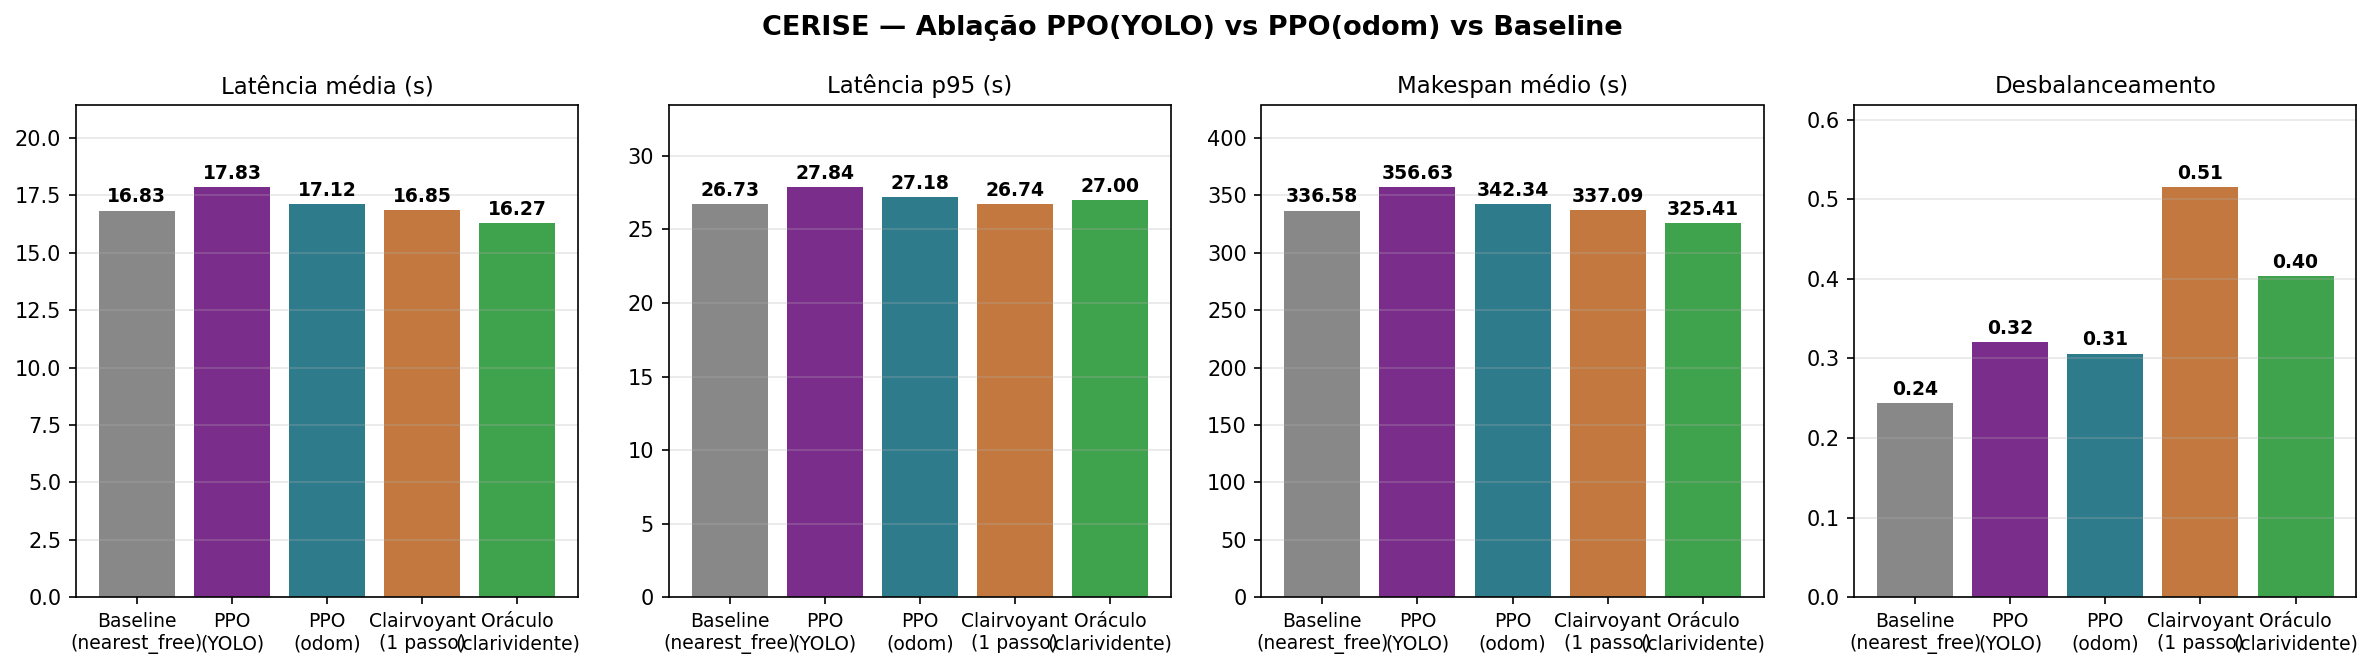
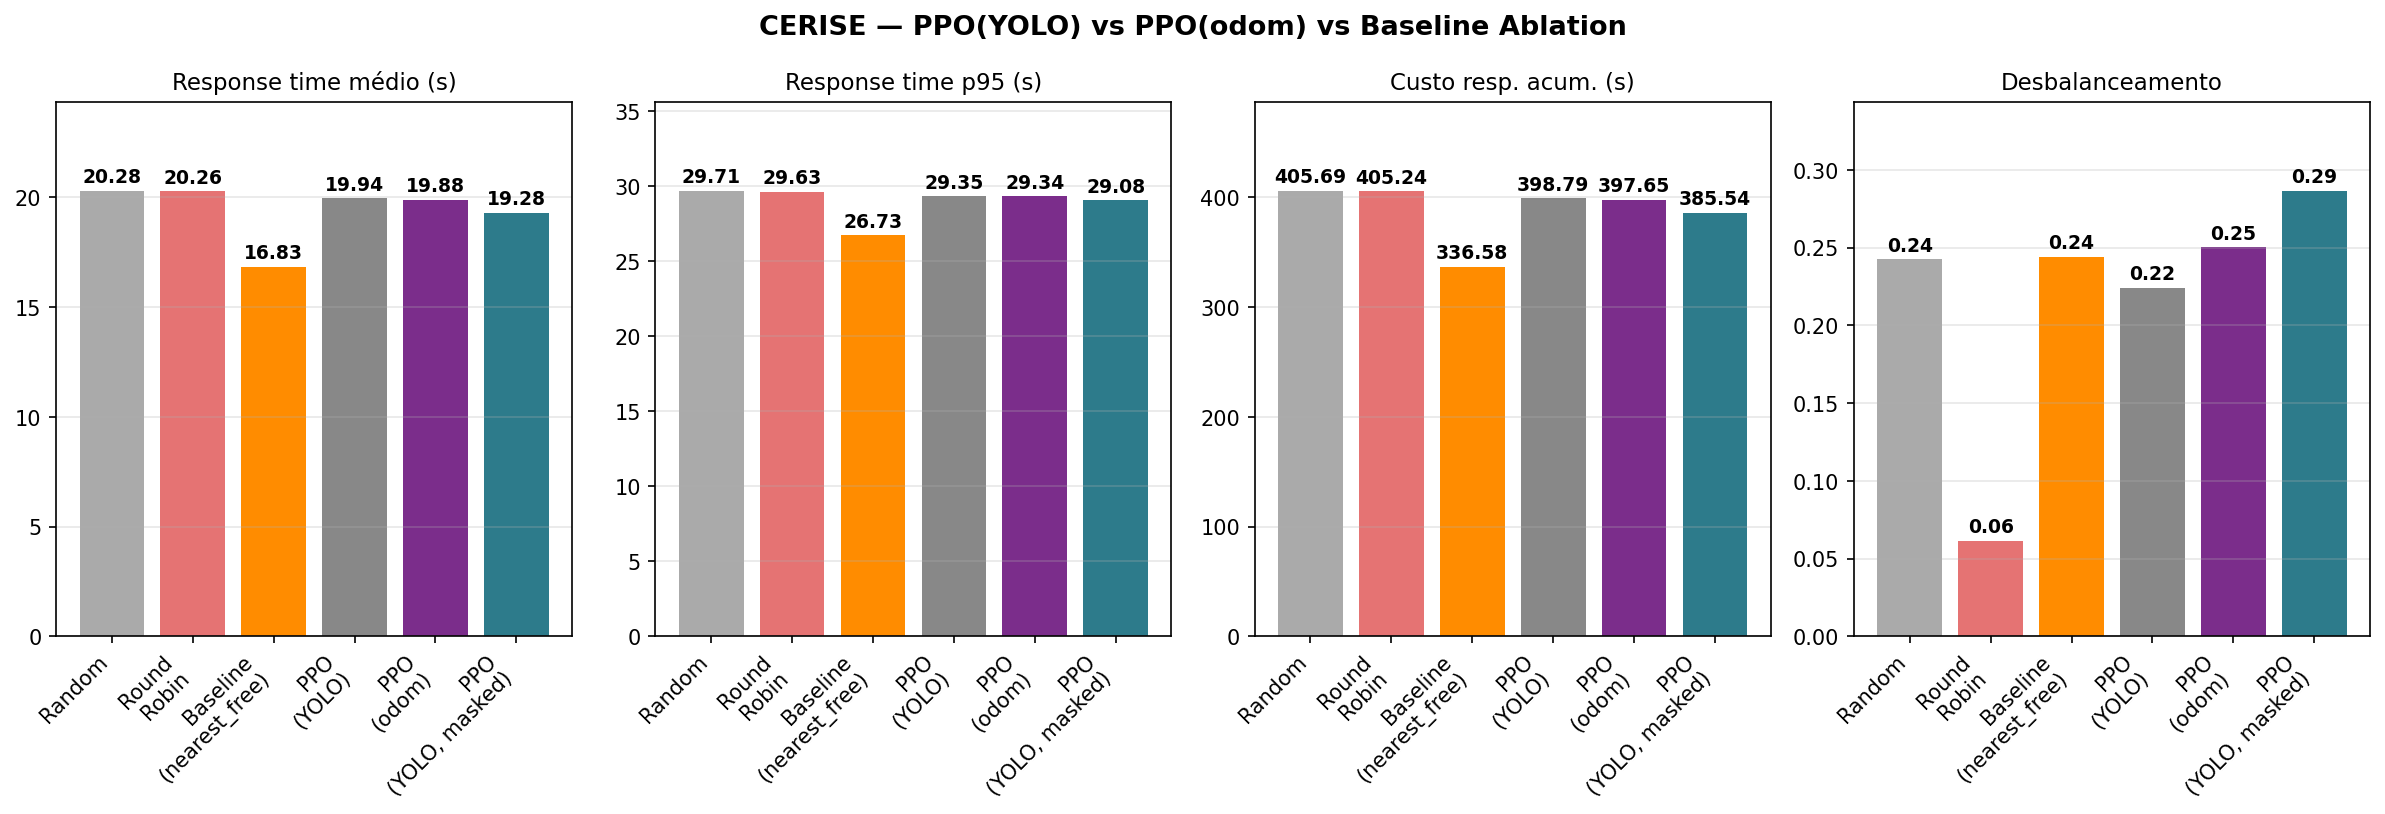
chore: ajustes de infra Gazebo e melhorias nos scripts de análise
- params_r*.yaml: corrige odom_topic e configura costmap global como
  janela rolante (rolling_window), evitando problemas de mapa estático
  com múltiplos robôs.
- demand_generator: aumenta intervalo padrão de 30s para 90s.
- launch/cerise_full.launch.py: launch consolidado para o pipeline completo.
- Scripts de plot/análise: rótulos em inglês, multi-seed
  (aggregate_multiseed.py), suporte a variantes mascaradas no
  analyze_ppo_behavior.py, e regeneração das figuras de ablação.

diff --git a/launch/cerise_full.launch.py b/launch/cerise_full.launch.py
@@ -1,0 +1,101 @@
+#!/usr/bin/env python3
+"""
+Launch completo CERISE: Gazebo + 3 robôs + TF estático map→odom + Nav2 (sem AMCL/map).
+yolo_detector, task_allocator e demand_generator rodam em terminais separados.
+
+Uso: ros2 launch cerise_nav cerise_full.launch.py
+"""
+from pathlib import Path
+from launch import LaunchDescription
+from launch.actions import IncludeLaunchDescription, TimerAction, GroupAction
+from launch.launch_description_sources import PythonLaunchDescriptionSource
+from launch_ros.actions import Node, PushRosNamespace
+
+
+def generate_launch_description():
+    # resolve() ANTES de navegar — segue o symlink do launch instalado até o repo
+    pkg_dir    = Path(__file__).resolve().parent.parent
+    world_file = str(pkg_dir / "world_with_camera.world")
+    waffle     = str(pkg_dir / "waffle_nodepth.model")
+    nav_launch = "/opt/ros/humble/share/nav2_bringup/launch/navigation_launch.py"
+    gz_dir     = "/opt/ros/humble/share/gazebo_ros"
+
+    robots = [
+        {"name": "robot1", "x": "-0.55", "y":  "0.55", "params": str(pkg_dir / "params_r1.yaml")},
+        {"name": "robot2", "x":  "0.55", "y":  "0.55", "params": str(pkg_dir / "params_r2.yaml")},
+        {"name": "robot3", "x":  "0.55", "y": "-0.55", "params": str(pkg_dir / "params_r3.yaml")},
+    ]
+
+    ld = LaunchDescription()
+
+    # Gazebo server + cliente
+    ld.add_action(IncludeLaunchDescription(
+        PythonLaunchDescriptionSource(f"{gz_dir}/launch/gzserver.launch.py"),
+        launch_arguments={"world": world_file, "pause": "false"}.items(),
+    ))
+    ld.add_action(IncludeLaunchDescription(
+        PythonLaunchDescriptionSource(f"{gz_dir}/launch/gzclient.launch.py")
+    ))
+
+    # Spawn 3 robôs
+    for r in robots:
+        ld.add_action(Node(
+            package="gazebo_ros", executable="spawn_entity.py",
+            arguments=["-entity", r["name"], "-file", waffle,
+                       "-robot_namespace", r["name"],
+                       "-x", r["x"], "-y", r["y"], "-z", "0.01"],
+            output="screen",
+        ))
+
+    # TF estático map→odom e base_footprint→base_link por robô
+    for r in robots:
+        # map → odom na pose de spawn (odom nasce na pose de spawn)
+        ld.add_action(TimerAction(period=6.0, actions=[Node(
+            package="tf2_ros", executable="static_transform_publisher",
+            name=f"static_map_odom_{r['name']}",
+            arguments=["--x", r["x"], "--y", r["y"], "--z", "0.0",
+                       "--yaw", "0", "--pitch", "0", "--roll", "0",
+                       "--frame-id", "map", "--child-frame-id", "odom"],
+            remappings=[("/tf", f"/{r['name']}/tf"),
+                        ("/tf_static", f"/{r['name']}/tf_static")],
+            output="screen",
+        )]))
+        # base_footprint → base_link (TurtleBot3: z=0.010m)
+        ld.add_action(TimerAction(period=6.0, actions=[Node(
+            package="tf2_ros", executable="static_transform_publisher",
+            name=f"static_fp_bl_{r['name']}",
+            arguments=["--x", "0", "--y", "0", "--z", "0.010",
+                       "--yaw", "0", "--pitch", "0", "--roll", "0",
+                       "--frame-id", "base_footprint", "--child-frame-id", "base_link"],
+            remappings=[("/tf", f"/{r['name']}/tf"),
+                        ("/tf_static", f"/{r['name']}/tf_static")],
+            output="screen",
+        )]))
+        # base_link → base_scan (laser, offset do modelo: x=-0.064, z=0.121)
+        ld.add_action(TimerAction(period=6.0, actions=[Node(
+            package="tf2_ros", executable="static_transform_publisher",
+            name=f"static_bl_bs_{r['name']}",
+            arguments=["--x", "-0.064", "--y", "0", "--z", "0.121",
+                       "--yaw", "0", "--pitch", "0", "--roll", "0",
+                       "--frame-id", "base_link", "--child-frame-id", "base_scan"],
+            remappings=[("/tf", f"/{r['name']}/tf"),
+                        ("/tf_static", f"/{r['name']}/tf_static")],
+            output="screen",
+        )]))
+
+    # Nav2 (navigation_launch — sem AMCL/map_server) namespaced por robô
+    for r in robots:
+        ld.add_action(TimerAction(period=12.0, actions=[GroupAction([
+            PushRosNamespace(r["name"]),
+            IncludeLaunchDescription(
+                PythonLaunchDescriptionSource(nav_launch),
+                launch_arguments={
+                    "namespace":    r["name"],
+                    "use_sim_time": "true",
+                    "params_file":  r["params"],
+                    "use_composition": "False",
+                }.items(),
+            ),
+        ])]))
+
+    return ld

diff --git a/scripts/aggregate_multiseed.py b/scripts/aggregate_multiseed.py
@@ -1,0 +1,105 @@
+#!/usr/bin/env python3
+"""Agrega resultados de múltiplos seeds do PPO e reporta média±std.
+
+Uso:
+    python3 scripts/aggregate_multiseed.py --seeds 42 123 7 --inter-arrival 12
+"""
+import argparse, os, sys
+import numpy as np
+
+_REPO = os.path.dirname(os.path.dirname(os.path.abspath(__file__)))
+sys.path.insert(0, os.path.join(_REPO, 'src', 'cerise_nav'))
+
+from cerise_nav.rl.allocation_env import AllocationEnv
+from cerise_nav.rl.nav_model import calibrate_from_csv
+from cerise_nav.rl import baselines, oracle
+
+
+def eval_seed(model_path, obs_source, args, nav, n_ep=200):
+    from stable_baselines3 import PPO
+    model = PPO.load(model_path)
+    env = AllocationEnv(num_robots=args.num_robots, inter_arrival=args.inter_arrival,
+                        obs_source=obs_source, nav_model=nav, episode_len=args.episode_len)
+    costs = []
+    for ep in range(n_ep):
+        obs, _ = env.reset(seed=ep)
+        total = 0.0
+        done = False
+        while not done:
+            action = int(model.predict(obs, deterministic=True)[0])
+            obs, _, term, trunc, info = env.step(action)
+            total += info['response_time']
+            done = term or trunc
+        costs.append(total)
+    return np.array(costs)
+
+
+def eval_baseline(policy_fn, obs_source, args, nav, n_ep=200):
+    env = AllocationEnv(num_robots=args.num_robots, inter_arrival=args.inter_arrival,
+                        obs_source=obs_source, nav_model=nav, episode_len=args.episode_len)
+    costs = []
+    for ep in range(n_ep):
+        obs, _ = env.reset(seed=ep)
+        total = 0.0
+        done = False
+        while not done:
+            action = policy_fn(obs, env.num_robots)
+            obs, _, term, trunc, info = env.step(action)
+            total += info['response_time']
+            done = term or trunc
+        costs.append(total)
+    return np.array(costs)
+
+
+def main():
+    p = argparse.ArgumentParser()
+    p.add_argument('--seeds', nargs='+', type=int, default=[42, 123, 7])
+    p.add_argument('--inter-arrival', type=float, default=12.0)
+    p.add_argument('--num-robots', type=int, default=3)
+    p.add_argument('--episode-len', type=int, default=20)
+    p.add_argument('--episodes', type=int, default=200)
+    p.add_argument('--model-dir', default=os.path.join(_REPO, 'models', 'multiseed'))
+    args = p.parse_args()
+
+    nav = calibrate_from_csv()
+    n_ep = args.episodes
+
+    # Baseline (determinístico — 1 run é suficiente)
+    print('Avaliando nearest_free...')
+    nf_costs = eval_baseline(baselines.nearest_free_policy, 'none', args, nav, n_ep)
+    oracle_fn = oracle.make_oracle_policy()
+    print('Avaliando oráculo...')
+    or_costs = eval_baseline(lambda obs, n: oracle_fn(obs, None), 'none', args, nav, n_ep)
+    oracle_mean = or_costs.mean()
+
+    print(f'\n{"Política":<22} {"Custo médio":>12} {"Std":>8} {"Gap% vs oráculo":>18}')
+    print('-' * 65)
+
+    def gap(c): return 100 * (c - oracle_mean) / oracle_mean
+
+    print(f'{"nearest_free":<22} {nf_costs.mean():>12.2f} {nf_costs.std():>8.2f} {gap(nf_costs.mean()):>17.1f}%')
+    print(f'{"oracle":<22} {or_costs.mean():>12.2f} {or_costs.std():>8.2f} {"0.0":>17}%')
+
+    for src in ['yolo', 'odom']:
+        seed_means = []
+        for seed in args.seeds:
+            path = os.path.join(args.model_dir, f'ppo_{src}_seed{seed}.zip')
+            if not os.path.exists(path):
+                # fallback: nome sem seed
+                path = os.path.join(_REPO, 'models', f'ppo_allocator_{src}.zip')
+            if not os.path.exists(path):
+                print(f'  [aviso] modelo não encontrado: {path}')
+                continue
+            costs = eval_seed(path, src, args, nav, n_ep)
+            seed_means.append(costs.mean())
+            print(f'  PPO({src}) seed={seed}: {costs.mean():.2f} ± {costs.std():.2f}  gap={gap(costs.mean()):.1f}%')
+
+        if seed_means:
+            arr = np.array(seed_means)
+            print(f'{"PPO("+src+") agregado":<22} {arr.mean():>12.2f} {arr.std():>8.2f} {gap(arr.mean()):>17.1f}%')
+
+    print()
+
+
+if __name__ == '__main__':
+    main()

diff --git a/scripts/plot_detection_error.py b/scripts/plot_detection_error.py
@@ -35,28 +35,28 @@ def main():
     print(f"Max:      {errors.max()*100:.1f} cm")
 
     fig, (ax1, ax2) = plt.subplots(1, 2, figsize=(10, 4))
-    fig.suptitle('CERISE Digital Twin — Erro de Localização (YOLO vs Odometria)', fontsize=13)
+    fig.suptitle('CERISE Digital Twin — Localization Error (YOLO vs Odometry)', fontsize=13)
 
     # Histograma
     ax1.hist(errors * 100, bins=30, color='steelblue', edgecolor='white', alpha=0.85)
-    ax1.axvline(errors.mean() * 100, color='red', linestyle='--', label=f'Média = {errors.mean()*100:.1f} cm')
-    ax1.axvline(np.median(errors) * 100, color='orange', linestyle='--', label=f'Mediana = {np.median(errors)*100:.1f} cm')
-    ax1.set_xlabel('Erro (cm)')
-    ax1.set_ylabel('Frequência')
-    ax1.set_title('Histograma do Erro')
+    ax1.axvline(errors.mean() * 100, color='red', linestyle='--', label=f'Mean = {errors.mean()*100:.1f} cm')
+    ax1.axvline(np.median(errors) * 100, color='orange', linestyle='--', label=f'Median = {np.median(errors)*100:.1f} cm')
+    ax1.set_xlabel('Error (cm)')
+    ax1.set_ylabel('Frequency')
+    ax1.set_title('Error Histogram')
     ax1.legend()
 
     # CDF
     sorted_err = np.sort(errors * 100)
     cdf = np.arange(1, len(sorted_err) + 1) / len(sorted_err)
     ax2.plot(sorted_err, cdf, color='steelblue', linewidth=2)
-    ax2.axvline(15, color='red', linestyle='--', alpha=0.7, label='Alvo: 15 cm')
+    ax2.axvline(15, color='red', linestyle='--', alpha=0.7, label='Target: 15 cm')
     pct_below_15 = (errors < 0.15).mean() * 100
     ax2.axhline(pct_below_15 / 100, color='orange', linestyle=':', alpha=0.7,
                 label=f'{pct_below_15:.0f}% < 15 cm')
-    ax2.set_xlabel('Erro (cm)')
-    ax2.set_ylabel('Prob. acumulada')
-    ax2.set_title('CDF do Erro')
+    ax2.set_xlabel('Error (cm)')
+    ax2.set_ylabel('Cumulative prob.')
+    ax2.set_title('Error CDF')
     ax2.legend()
     ax2.grid(True, alpha=0.3)
 

diff --git a/scripts/sweep_load.py b/scripts/sweep_load.py
@@ -131,16 +131,20 @@ def _plot(load_pts, results, policies):
     import matplotlib.pyplot as plt
 
     colors = {
+        'random':       '#AAAAAA',
+        'round_robin':  '#E57373',
         'nearest_free': '#888888',
-        'oracle': '#3FA34D',
-        'PPO(yolo)': '#7B2D8B',
-        'PPO(odom)': '#2D7B8B',
+        'oracle':       '#3FA34D',
+        'PPO(yolo)':    '#7B2D8B',
+        'PPO(odom)':    '#2D7B8B',
     }
     styles = {
+        'random':       ':D',
+        'round_robin':  '--x',
         'nearest_free': '-o',
-        'oracle': '-s',
-        'PPO(yolo)': '-^',
-        'PPO(odom)': '-v',
+        'oracle':       '-s',
+        'PPO(yolo)':    '-^',
+        'PPO(odom)':    '-v',
     }
 
     fig, ax = plt.subplots(figsize=(8, 5))
@@ -151,9 +155,10 @@ def _plot(load_pts, results, policies):
                 color=colors.get(name, '#444444'),
                 label=name, linewidth=2, markersize=7)
 
-    ax.set_xlabel('Inter-arrival (s)  [←  alta carga   |   baixa carga  →]', fontsize=12)
-    ax.set_ylabel('Custo médio (∑ response_time por ep, s)', fontsize=12)
-    ax.set_title('CERISE — Crossover PPO vs nearest_free por carga', fontsize=13, fontweight='bold')
+    ax.set_xlabel('Inter-arrival (s)  [←  high load   |   low load  →]', fontsize=12)
+    ax.set_ylabel('Mean cost (∑ response_time per ep, s)', fontsize=12)
+    ax.set_title('CERISE — Response Cost vs Load (nearest_free ≈ optimal)',
+                 fontsize=13, fontweight='bold')
     ax.legend(fontsize=11)
     ax.grid(alpha=0.3)
     ax.invert_xaxis()

diff --git a/scripts/plot_learning_curve.py b/scripts/plot_learning_curve.py
@@ -111,9 +111,9 @@ def main():
     ax.axhline(bl_r, color='#888888', linewidth=1.5, linestyle='--',
                label=f'nearest_free ({bl_r:.1f})')
 
-    ax.set_xlabel('Timesteps de treino', fontsize=12)
-    ax.set_ylabel('Reward médio por episódio', fontsize=12)
-    ax.set_title('CERISE — Curva de Aprendizado PPO(YOLO) vs PPO(odom)',
+    ax.set_xlabel('Training timesteps', fontsize=12)
+    ax.set_ylabel('Mean episodic reward', fontsize=12)
+    ax.set_title('CERISE — PPO(YOLO) vs PPO(odom) Learning Curve',
                  fontsize=13, fontweight='bold')
     ax.legend(fontsize=11)
     ax.grid(alpha=0.3)

diff --git a/scripts/analyze_ppo_behavior.py b/scripts/analyze_ppo_behavior.py
@@ -45,7 +45,7 @@ def analyze(n_episodes=2000, max_examples=5):
 
             if a_ppo != a_nf:
                 # Posições e busy antes do step
-                positions, busy_norm, origin = obs_encoding.decode_obs(
+                positions, busy_norm, origin, _dest, _future = obs_encoding.decode_obs(
                     obs, env.num_robots)
                 busy_s = [b * obs_encoding.BUSY_REF for b in busy_norm]
 

diff --git a/src/cerise_nav/cerise_nav/demand_generator.py b/src/cerise_nav/cerise_nav/demand_generator.py
@@ -17,7 +17,7 @@ class DemandGenerator(Node):
     def __init__(self):
         super().__init__('demand_generator')
         self.pub = self.create_publisher(String, '/demands', 10)
-        self.timer = self.create_timer(30.0, self.publish_demand)
+        self.timer = self.create_timer(90.0, self.publish_demand)
         self.demand_id = 0
         self.get_logger().info('DemandGenerator iniciado')
 
